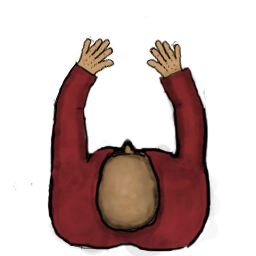
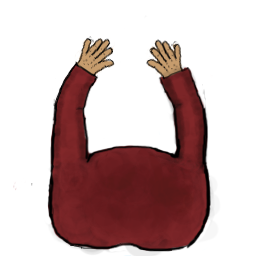
Shaders off bro

Changed region(s): [[0.3438, 0.5312, 0.7188, 0.9688], [0.3438, 0.5938, 0.375, 0.625]]

diff --git a/OSE/Engine/Render/Renderer.cpp b/OSE/Engine/Render/Renderer.cpp
@@ -210,8 +210,8 @@ void Renderer::Draw(IGameState *State)
 				mLighting->UpdateLightingTexture(mView);
 				sf::RenderStates state;
 				state.blendMode = sf::BlendMultiply;
-				mLighting->mBlurShader.setParameter("blur_radius", 0.003f);
-				state.shader = &mLighting->mBlurShader;
+				//mLighting->mBlurShader.setParameter("blur_radius", 0.003f);
+				//state.shader = &mLighting->mBlurShader;
 				mRender->setView(mHUDView);
 				mRender->draw(*mLighting->GetLightingSprite(), state);
 				mRender->setView(mView);

diff --git a/OSE/Engine/Render/Lighting.cpp b/OSE/Engine/Render/Lighting.cpp
@@ -89,7 +89,7 @@ void Lighting::DrawLight(LightInfo *light, sf::RenderTexture* tex)
 {
 	//Draw Lights
 	sf::RenderStates light_state;
-	light_state.shader = &mLightShader;
+	//light_state.shader = &mLightShader;
 	//light_state.blendMode = sf::BlendAdd;
 	light->GetSprite()->setColor(light->GetColour());
 	light->GetSprite()->setPosition(ConvertCoords(light->GetPosition()));
